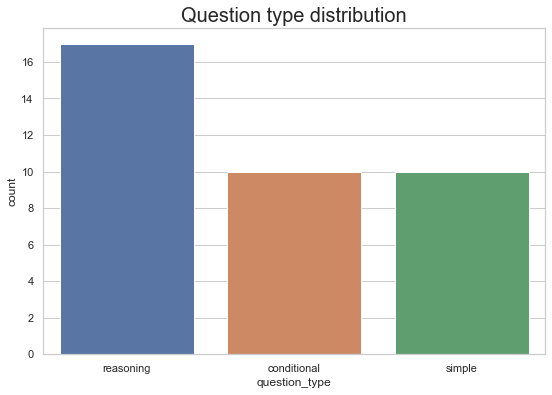
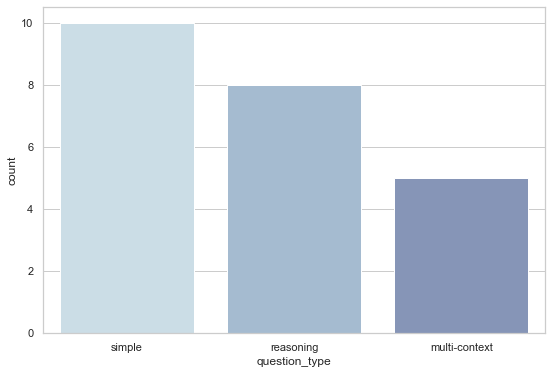
docs: updated testset generation (#510)

diff --git a/src/ragas/testset/generator.py b/src/ragas/testset/generator.py
@@ -13,16 +13,24 @@ from ragas.embeddings import BaseRagasEmbeddings
 from ragas.executor import Executor
 from ragas.llms import BaseRagasLLM, LangchainLLMWrapper
 from ragas.testset.docstore import Document, DocumentStore, InMemoryDocumentStore
-from ragas.testset.evolutions import ComplexEvolution, CurrentNodes, DataRow
+from ragas.testset.evolutions import (
+    ComplexEvolution,
+    CurrentNodes,
+    DataRow,
+    multi_context,
+    reasoning,
+    simple,
+)
 from ragas.testset.filters import EvolutionFilter, NodeFilter, QuestionFilter
 
 if t.TYPE_CHECKING:
     from llama_index.readers.schema import Document as LlamaindexDocument
     from langchain_core.documents import Document as LCDocument
 
-Distributions = t.Dict[t.Any, float]
-
 logger = logging.getLogger(__name__)
+
+Distributions = t.Dict[t.Any, float]
+DEFAULT_DISTRIBUTION = {simple: 0.5, reasoning: 0.25, multi_context: 0.25}
 
 
 @dataclass
@@ -126,7 +134,7 @@ class TestsetGenerator:
     def generate(
         self,
         test_size: int,
-        distributions: Distributions = {},
+        distributions: Distributions = DEFAULT_DISTRIBUTION,
         with_debugging_logs=False,
     ):
         # init filters and evolutions

diff --git a/docs/getstarted/testset_generation.md b/docs/getstarted/testset_generation.md
@@ -11,30 +11,23 @@ os.environ["OPENAI_API_KEY"] = "your-openai-key"
 
 ## Documents
 
-To begin, we require a collection of documents to generate synthetic Question/Context/Answer samples. Here, we will employ the llama-index document loaders to retrieve documents.
+To begin, we require a collection of documents to generate synthetic Question/Context/Answer samples. Here, we will employ the langchain document loader to load documents.
 
 ```{code-block} python
-:caption: Load documents from Semantic Scholar
-from llama_index import download_loader
-
-SemanticScholarReader = download_loader("SemanticScholarReader")
-loader = SemanticScholarReader()
-# Narrow down the search space
-query_space = "large language models"
-# Increase the limit to obtain more documents
-documents = loader.load_data(query=query_space, limit=10)
+:caption: Load documents from directory
+from langchain.document_loaders import DirectoryLoader
+loader = DirectoryLoader("your-directory")
+documents = loader.load()
 ```
 
 :::{note}
 Each Document object contains a metadata dictionary, which can be used to store additional information about the document which can be accessed with  `Document.metadata`. Please ensure that the metadata dictionary contains a key called `file_name` as this will be used in the generation process. The `file_name` attribute in metadata is used to identify chunks belonging to the same document. For example, pages belonging to the same research publication can be identifies using filename.
 
-An example of how to do this for `SemanticScholarReader` is shown below.
+An example of how to do this is shown below.
 
 ```{code-block} python
-for d in documents:
-    d.metadata["file_name"] = d.metadata["title"]
-
-documents[0].metadata
+for document in documents:
+    document.metadata['file_name'] = document.metadata['source']
 ```
 :::
 
@@ -46,11 +39,15 @@ We will now import and use Ragas' `Testsetgenerator` to promptly generate a synt
 
 ```{code-block} python
 :caption: Create 10 samples using default configuration
-from ragas.testset import TestsetGenerator
+from ragas.testset.generator import TestsetGenerator
+from ragas.testset.evolutions import simple, reasoning, multi_context
 
-testsetgenerator = TestsetGenerator.from_default()
-test_size = 10
-testset = testsetgenerator.generate(documents, test_size=test_size)
+# generator with openai models
+generator = TestsetGenerator.with_openai()
+
+# generate testset
+testset = generator.generate_with_langchain_docs(documents, test_size=10)
+testset.to_pandas()
 ```
 
 Subsequently, we can export the results into a Pandas DataFrame.

diff --git a/docs/concepts/testset_generation.md b/docs/concepts/testset_generation.md
@@ -57,40 +57,25 @@ Checkout [llama-index](https://gpt-index.readthedocs.io/en/stable/core_modules/d
 
 
 ```{code-block} python
-:caption: Customising test set generation 
-from ragas.testset import TestsetGenerator
-from langchain.embeddings import OpenAIEmbeddings
-from langchain.chat_models import ChatOpenAI
-from ragas.llms import LangchainLLM
+:caption: Customising test data distribution 
+from ragas.testset.generator import TestsetGenerator
+from ragas.testset.evolutions import simple, reasoning, multi_context
 
 # documents = load your documents
 
-# Add custom llms and embeddings
-generator_llm = LangchainLLM(llm=ChatOpenAI(model="gpt-3.5-turbo"))
-critic_llm = LangchainLLM(llm=ChatOpenAI(model="gpt-4"))
-embeddings_model = OpenAIEmbeddings()
+# generator with openai models
+generator = TestsetGenerator.with_openai()
 
 # Change resulting question type distribution
-testset_distribution = {
-    "simple": 0.25,
-    "reasoning": 0.5,
-    "multi_context": 0.0,
-    "conditional": 0.25,
+distributions = {
+    simple: 0.5,
+    multi_context: 0.4,
+    reasoning: 0.1
 }
 
-# percentage of conversational question
-chat_qa = 0.2
-
-
-test_generator = TestsetGenerator(
-    generator_llm=generator_llm,
-    critic_llm=critic_llm,
-    embeddings_model=embeddings_model,
-    testset_distribution=testset_distribution,
-    chat_qa=chat_qa,
-)
-
-testset = test_generator.generate(documents, test_size=5)
+# use generator.generate_with_llamaindex_docs if you use llama-index as document loader
+testset = generator.generate_with_langchain_docs(documents, 10, distributions) 
+testset.to_pandas()
 
 ```
 
@@ -109,16 +94,6 @@ test_df.head()
 
  Analyze the frequency of different question types in the created dataset
 
- ```{code-block} python
- :caption: bar graph of question types
-import seaborn as sns
-sns.set(rc={'figure.figsize':(9,6)})
-
-test_data_dist = test_df.question_type.value_counts().to_frame().reset_index()
-sns.set_theme(style="whitegrid")
-g = sns.barplot(y='count',x='question_type', data=test_data_dist)
-g.set_title("Question type distribution",fontdict = { 'fontsize': 20})
- ```
 
 <p align="left">
 <img src="../_static/imgs/question_types.png" alt="test-outputs" width="450" height="400" />
